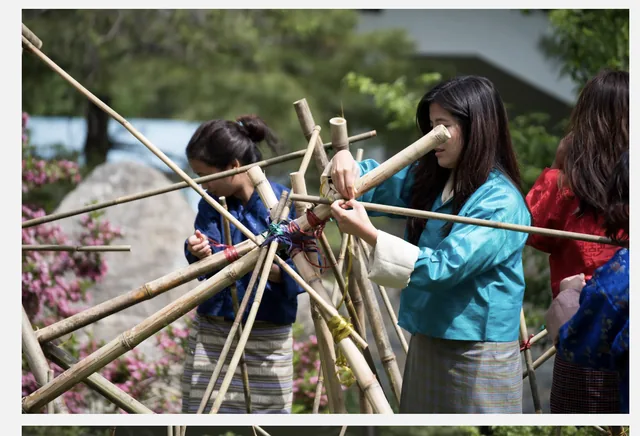
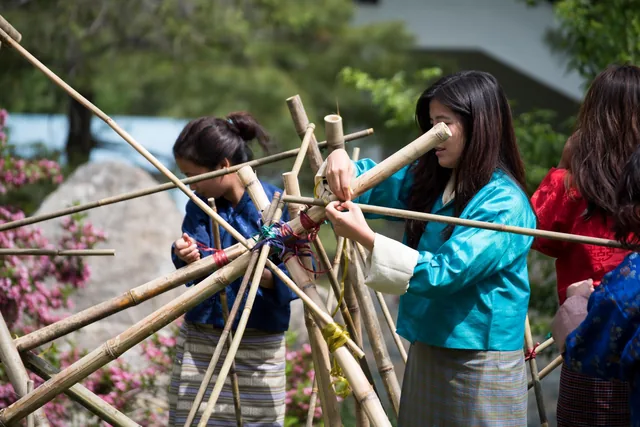
Bamboo III: use original image for thumbnail instead of screenshot
Claude-Session: https://claude.ai/code/session_01Y5zLHHVNGBALbwHoLrd9Wg

diff --git a/dist/public-work/index.html b/dist/public-work/index.html
@@ -9,6 +9,6 @@
 <header class="site-head"><div class="wrap"><a class="brand" href="/">Kelly Goff</a>
 <button class="menu-btn" aria-expanded="false" aria-controls="nav">Menu</button>
 <ul class="nav" id="nav"><li><a href="/public-work/" aria-current=page>Public work</a></li><li><a href="/studio/">Studio</a></li><li><a href="/fieldwork/">Fieldwork</a></li><li><a href="/about/">About</a></li><li><a href="/resume/">Resume</a></li><li><a href="/contact/">Contact</a></li></ul></div></header>
-<main id="main"><div class="wrap page-top"><div class="row-head"><div><h1>Public work</h1></div><a class="btn" href="/files/Kelly-Goff-Public-Art-Project-List.pdf">Project list (PDF) ↓</a></div><div><h2 class="sec"><span class=n>01</span>Line works<span class=nt>2020 – present</span></h2></div><p class="sec-d">Continuous lines drawn in space, shaped by a site and built to last outdoors.</p><div class="grid" id="grid-continuous-line"><a class="tile" title="Arboreal Line" href="/public-work/arboreal-line/"><div class="im"><img src="/img/arboreal-line/01-1600.webp" srcset="/img/arboreal-line/01-640.webp 640w, /img/arboreal-line/01-1100.webp 1100w, /img/arboreal-line/01-1600.webp 1600w, /img/arboreal-line/01-2400.webp 2400w" sizes="(max-width:860px) 50vw, 33vw" width="2500" height="1667" alt="Arboreal Line, Uptown Trees, Greeley, CO" loading=lazy decoding=async><span class="hov">Arboreal Line</span></div></a><a class="tile" title="Continuous Line XI (yellow)" href="/public-work/continuous-line-xi/"><div class="im"><img src="/img/continuous-line-xi/01-1600.webp" srcset="/img/continuous-line-xi/01-640.webp 640w, /img/continuous-line-xi/01-1100.webp 1100w, /img/continuous-line-xi/01-1600.webp 1600w, /img/continuous-line-xi/01-2400.webp 2400w" sizes="(max-width:860px) 50vw, 33vw" width="2500" height="1667" alt="Continuous Line XI (yellow), Wheaton College, Norton, MA" loading=lazy decoding=async><span class="hov">Continuous Line XI (yellow)</span></div></a><a class="tile" title="Continuous Line XII (silence)" href="/public-work/continuous-line-xii-silence/"><div class="im"><img src="/img/continuous-line-xii-silence/01-1600.webp" srcset="/img/continuous-line-xii-silence/01-640.webp 640w, /img/continuous-line-xii-silence/01-1100.webp 1100w, /img/continuous-line-xii-silence/01-1600.webp 1600w, /img/continuous-line-xii-silence/01-2400.webp 2400w" sizes="(max-width:860px) 50vw, 33vw" width="2576" height="1932" alt="Continuous Line XII (silence), Wheaton College, Norton, MA" loading=lazy decoding=async><span class="hov">Continuous Line XII (silence)</span></div></a><a class="tile" title="Continuous Line VIII (bamboo)" href="/public-work/continuous-line-viii-bamboo/"><div class="im"><img src="/img/continuous-line-viii-bamboo/03-1600.webp" srcset="/img/continuous-line-viii-bamboo/03-640.webp 640w, /img/continuous-line-viii-bamboo/03-1100.webp 1100w, /img/continuous-line-viii-bamboo/03-1600.webp 1600w, /img/continuous-line-viii-bamboo/03-1776.webp 1776w" sizes="(max-width:860px) 50vw, 33vw" width="1776" height="1184" alt="Continuous Line VIII (bamboo), Geumgang Nature Art Biennale, Yeonmisan Art Park, Gongju, South Korea, view 3" loading=lazy decoding=async><span class="hov">Continuous Line VIII (bamboo)</span></div></a><a class="tile" title="Continuous Line X (heat)" href="/public-work/continuous-line-x-heat/"><div class="im"><img src="/img/continuous-line-x-heat/01-1600.webp" srcset="/img/continuous-line-x-heat/01-640.webp 640w, /img/continuous-line-x-heat/01-1100.webp 1100w, /img/continuous-line-x-heat/01-1600.webp 1600w, /img/continuous-line-x-heat/01-2400.webp 2400w" sizes="(max-width:860px) 50vw, 33vw" width="2500" height="1669" alt="Continuous Line X (heat), Wheaton College, Norton, MA" loading=lazy decoding=async><span class="hov">Continuous Line X (heat)</span></div></a><a class="tile" title="Continuous Line VI (levity)" href="/public-work/continuous-line-vi-levity/"><div class="im"><img src="/img/continuous-line-vi-levity/04-1600.webp" srcset="/img/continuous-line-vi-levity/04-640.webp 640w, /img/continuous-line-vi-levity/04-1100.webp 1100w, /img/continuous-line-vi-levity/04-1600.webp 1600w, /img/continuous-line-vi-levity/04-1854.webp 1854w" sizes="(max-width:860px) 50vw, 33vw" width="1854" height="1154" alt="Continuous Line VI (levity), Power Tech Charter School, Colorado Springs, CO, view 4" loading=lazy decoding=async><span class="hov">Continuous Line VI (levity)</span></div></a><a class="tile" title="Continuous Line VII" href="/public-work/continuous-line-vii/"><div class="im"><img src="/img/continuous-line-vii/01-1600.webp" srcset="/img/continuous-line-vii/01-640.webp 640w, /img/continuous-line-vii/01-1100.webp 1100w, /img/continuous-line-vii/01-1600.webp 1600w, /img/continuous-line-vii/01-2400.webp 2400w" sizes="(max-width:860px) 50vw, 33vw" width="2500" height="1668" alt="Continuous Line VII, El Paseo Sculpture Exhibition, Palm Desert, CA" loading=lazy decoding=async><span class="hov">Continuous Line VII</span></div></a><a class="tile" title="Continuous Line I (tangerine)" href="/public-work/continuous-line-i-tangerine/"><div class="im"><img src="/img/continuous-line-i-tangerine/01-1600.webp" srcset="/img/continuous-line-i-tangerine/01-640.webp 640w, /img/continuous-line-i-tangerine/01-1100.webp 1100w, /img/continuous-line-i-tangerine/01-1600.webp 1600w, /img/continuous-line-i-tangerine/01-2400.webp 2400w" sizes="(max-width:860px) 50vw, 33vw" width="2500" height="1667" alt="Continuous Line I (tangerine), Art on the Trails, Beals Preserve, Southborough, MA" loading=lazy decoding=async><span class="hov">Continuous Line I (tangerine)</span></div></a><a class="tile" title="Continuous Line II (aquamarine)" href="/public-work/continuous-line-ii-aquamarine/"><div class="im"><img src="/img/continuous-line-ii-aquamarine/01-1600.webp" srcset="/img/continuous-line-ii-aquamarine/01-640.webp 640w, /img/continuous-line-ii-aquamarine/01-1100.webp 1100w, /img/continuous-line-ii-aquamarine/01-1600.webp 1600w, /img/continuous-line-ii-aquamarine/01-2400.webp 2400w" sizes="(max-width:860px) 50vw, 33vw" width="2500" height="1669" alt="Continuous Line II (aquamarine), Art on the Trails, Beals Preserve, Southborough, MA" loading=lazy decoding=async><span class="hov">Continuous Line II (aquamarine)</span></div></a></div><div><h2 class="sec"><span class=n>02</span>Place-based / collaborative<span class=nt>2014 – 2021</span></h2></div><p class="sec-d">Work made in response to a specific place, often with the people who use it.</p><div class="grid" id="grid-place-based"><a class="tile" title="Limb Support" href="/public-work/limb-support/"><div class="im"><img src="/img/limb-support/01-1600.webp" srcset="/img/limb-support/01-640.webp 640w, /img/limb-support/01-1100.webp 1100w, /img/limb-support/01-1600.webp 1600w, /img/limb-support/01-2000.webp 2000w" sizes="(max-width:860px) 50vw, 33vw" width="2000" height="1333" alt="Limb Support, Art on the Trails, Beals Preserve, Southborough, MA" loading=lazy decoding=async><span class="hov">Limb Support</span></div></a><a class="tile" title="Log Pile" href="/public-work/log-pile/"><div class="im"><img src="/img/log-pile/01-1600.webp" srcset="/img/log-pile/01-640.webp 640w, /img/log-pile/01-1100.webp 1100w, /img/log-pile/01-1600.webp 1600w, /img/log-pile/01-2400.webp 2400w" sizes="(max-width:860px) 50vw, 33vw" width="2500" height="1668" alt="Log Pile, Early Learning Center, Wheaton College, Norton, MA" loading=lazy decoding=async><span class="hov">Log Pile</span></div></a><a class="tile" title="Beacon" href="/public-work/beacon/"><div class="im"><img src="/img/beacon/01-1600.webp" srcset="/img/beacon/01-640.webp 640w, /img/beacon/01-1100.webp 1100w, /img/beacon/01-1600.webp 1600w, /img/beacon/01-2400.webp 2400w" sizes="(max-width:860px) 50vw, 33vw" width="2500" height="1669" alt="Beacon, gardeHouse, Lafayette College, Easton, PA" loading=lazy decoding=async><span class="hov">Beacon</span></div></a><a class="tile" title="Bamboo III (of V)" href="/public-work/bamboo-iii/"><div class="im"><img src="/img/bamboo-iii/07-1600.webp" srcset="/img/bamboo-iii/07-640.webp 640w, /img/bamboo-iii/07-1100.webp 1100w, /img/bamboo-iii/07-1600.webp 1600w, /img/bamboo-iii/07-1736.webp 1736w" sizes="(max-width:860px) 50vw, 33vw" width="1736" height="1182" alt="Bamboo III (of V), Royal Thimphu College, Thimphu, Bhutan, view 7" loading=lazy decoding=async><span class="hov">Bamboo III (of V)</span></div></a><a class="tile" title="Lawn Containers" href="/public-work/lawn-containers/"><div class="im"><img src="/img/lawn-containers/05-1600.webp" srcset="/img/lawn-containers/05-640.webp 640w, /img/lawn-containers/05-1100.webp 1100w, /img/lawn-containers/05-1600.webp 1600w, /img/lawn-containers/05-1920.webp 1920w" sizes="(max-width:860px) 50vw, 33vw" width="1920" height="1280" alt="Lawn Containers, D Street Art Lab, Lawn on D, Boston, MA, view 5" loading=lazy decoding=async><span class="hov">Lawn Containers</span></div></a><a class="tile" title="Bear" href="/public-work/bear/"><div class="im"><img src="/img/bear/01-1600.webp" srcset="/img/bear/01-640.webp 640w, /img/bear/01-1100.webp 1100w, /img/bear/01-1600.webp 1600w, /img/bear/01-2400.webp 2400w" sizes="(max-width:860px) 50vw, 33vw" width="2500" height="1667" alt="Bear, Lake Clark National Park, Alaska" loading=lazy decoding=async><span class="hov">Bear</span></div></a></div><div><h2 class="sec"><span class=n>03</span>Drawings &amp; Renderings<span class=nt>Unbuilt</span></h2></div><p class="sec-d">Rendered models placed in photographs of real and imagined places. This is how I draw for fun, and how I ideate and envision work for public spaces. None of these are built, and none use <a href="/about/#ai">generative AI</a>.</p><div class="grid" id="grid-renderings"><a class="tile" title="Seated Line" href="/public-work/renderings/seated-line/"><div class="im"><img src="/img/rd-seated-line/02-1600.webp" srcset="/img/rd-seated-line/02-640.webp 640w, /img/rd-seated-line/02-1100.webp 1100w, /img/rd-seated-line/02-1600.webp 1600w, /img/rd-seated-line/02-2250.webp 2250w" sizes="(max-width:860px) 50vw, 33vw" width="2250" height="1500" alt="Rendering of a red looping sculpture on a harbor quay" loading=lazy decoding=async></div></a><a class="tile" title="Black loops, open field" href="/public-work/renderings/black-field/"><div class="im"><img src="/img/rd-black-field/01-1600.webp" srcset="/img/rd-black-field/01-640.webp 640w, /img/rd-black-field/01-1100.webp 1100w, /img/rd-black-field/01-1600.webp 1600w, /img/rd-black-field/01-2400.webp 2400w" sizes="(max-width:860px) 50vw, 33vw" width="2500" height="1668" alt="Rendering of black loops, close view, in an open field" loading=lazy decoding=async></div></a><a class="tile" title="Tower" href="/public-work/renderings/tower/"><div class="im"><img src="/img/rd-tower/01-1600.webp" srcset="/img/rd-tower/01-640.webp 640w, /img/rd-tower/01-1100.webp 1100w, /img/rd-tower/01-1600.webp 1600w, /img/rd-tower/01-2048.webp 2048w" sizes="(max-width:860px) 50vw, 33vw" width="2048" height="1536" alt="Rendering of a 40-foot tower of stacked crates in an open field" loading=lazy decoding=async></div></a><a class="tile" title="Timber Loop" href="/public-work/renderings/timber-loop/"><div class="im"><img src="/img/rd-timber-loop/03-1600.webp" srcset="/img/rd-timber-loop/03-640.webp 640w, /img/rd-timber-loop/03-1100.webp 1100w, /img/rd-timber-loop/03-1600.webp 1600w, /img/rd-timber-loop/03-2021.webp 2021w" sizes="(max-width:860px) 50vw, 33vw" width="2021" height="1516" alt="Rendering of a two-tone timber looping sculpture in a plaza" loading=lazy decoding=async></div></a><a class="tile" title="Tall Circuit" href="/public-work/renderings/tall-circuit/"><div class="im"><img src="/img/rd-tall-circuit/02-1600.webp" srcset="/img/rd-tall-circuit/02-640.webp 640w, /img/rd-tall-circuit/02-1100.webp 1100w, /img/rd-tall-circuit/02-1600.webp 1600w, /img/rd-tall-circuit/02-2250.webp 2250w" sizes="(max-width:860px) 50vw, 33vw" width="2250" height="1500" alt="Rendering of a tall looping pink aluminum sculpture in an urban setting" loading=lazy decoding=async></div></a></div></div></main>
+<main id="main"><div class="wrap page-top"><div class="row-head"><div><h1>Public work</h1></div><a class="btn" href="/files/Kelly-Goff-Public-Art-Project-List.pdf">Project list (PDF) ↓</a></div><div><h2 class="sec"><span class=n>01</span>Line works<span class=nt>2020 – present</span></h2></div><p class="sec-d">Continuous lines drawn in space, shaped by a site and built to last outdoors.</p><div class="grid" id="grid-continuous-line"><a class="tile" title="Arboreal Line" href="/public-work/arboreal-line/"><div class="im"><img src="/img/arboreal-line/01-1600.webp" srcset="/img/arboreal-line/01-640.webp 640w, /img/arboreal-line/01-1100.webp 1100w, /img/arboreal-line/01-1600.webp 1600w, /img/arboreal-line/01-2400.webp 2400w" sizes="(max-width:860px) 50vw, 33vw" width="2500" height="1667" alt="Arboreal Line, Uptown Trees, Greeley, CO" loading=lazy decoding=async><span class="hov">Arboreal Line</span></div></a><a class="tile" title="Continuous Line XI (yellow)" href="/public-work/continuous-line-xi/"><div class="im"><img src="/img/continuous-line-xi/01-1600.webp" srcset="/img/continuous-line-xi/01-640.webp 640w, /img/continuous-line-xi/01-1100.webp 1100w, /img/continuous-line-xi/01-1600.webp 1600w, /img/continuous-line-xi/01-2400.webp 2400w" sizes="(max-width:860px) 50vw, 33vw" width="2500" height="1667" alt="Continuous Line XI (yellow), Wheaton College, Norton, MA" loading=lazy decoding=async><span class="hov">Continuous Line XI (yellow)</span></div></a><a class="tile" title="Continuous Line XII (silence)" href="/public-work/continuous-line-xii-silence/"><div class="im"><img src="/img/continuous-line-xii-silence/01-1600.webp" srcset="/img/continuous-line-xii-silence/01-640.webp 640w, /img/continuous-line-xii-silence/01-1100.webp 1100w, /img/continuous-line-xii-silence/01-1600.webp 1600w, /img/continuous-line-xii-silence/01-2400.webp 2400w" sizes="(max-width:860px) 50vw, 33vw" width="2576" height="1932" alt="Continuous Line XII (silence), Wheaton College, Norton, MA" loading=lazy decoding=async><span class="hov">Continuous Line XII (silence)</span></div></a><a class="tile" title="Continuous Line VIII (bamboo)" href="/public-work/continuous-line-viii-bamboo/"><div class="im"><img src="/img/continuous-line-viii-bamboo/03-1600.webp" srcset="/img/continuous-line-viii-bamboo/03-640.webp 640w, /img/continuous-line-viii-bamboo/03-1100.webp 1100w, /img/continuous-line-viii-bamboo/03-1600.webp 1600w, /img/continuous-line-viii-bamboo/03-1776.webp 1776w" sizes="(max-width:860px) 50vw, 33vw" width="1776" height="1184" alt="Continuous Line VIII (bamboo), Geumgang Nature Art Biennale, Yeonmisan Art Park, Gongju, South Korea, view 3" loading=lazy decoding=async><span class="hov">Continuous Line VIII (bamboo)</span></div></a><a class="tile" title="Continuous Line X (heat)" href="/public-work/continuous-line-x-heat/"><div class="im"><img src="/img/continuous-line-x-heat/01-1600.webp" srcset="/img/continuous-line-x-heat/01-640.webp 640w, /img/continuous-line-x-heat/01-1100.webp 1100w, /img/continuous-line-x-heat/01-1600.webp 1600w, /img/continuous-line-x-heat/01-2400.webp 2400w" sizes="(max-width:860px) 50vw, 33vw" width="2500" height="1669" alt="Continuous Line X (heat), Wheaton College, Norton, MA" loading=lazy decoding=async><span class="hov">Continuous Line X (heat)</span></div></a><a class="tile" title="Continuous Line VI (levity)" href="/public-work/continuous-line-vi-levity/"><div class="im"><img src="/img/continuous-line-vi-levity/04-1600.webp" srcset="/img/continuous-line-vi-levity/04-640.webp 640w, /img/continuous-line-vi-levity/04-1100.webp 1100w, /img/continuous-line-vi-levity/04-1600.webp 1600w, /img/continuous-line-vi-levity/04-1854.webp 1854w" sizes="(max-width:860px) 50vw, 33vw" width="1854" height="1154" alt="Continuous Line VI (levity), Power Tech Charter School, Colorado Springs, CO, view 4" loading=lazy decoding=async><span class="hov">Continuous Line VI (levity)</span></div></a><a class="tile" title="Continuous Line VII" href="/public-work/continuous-line-vii/"><div class="im"><img src="/img/continuous-line-vii/01-1600.webp" srcset="/img/continuous-line-vii/01-640.webp 640w, /img/continuous-line-vii/01-1100.webp 1100w, /img/continuous-line-vii/01-1600.webp 1600w, /img/continuous-line-vii/01-2400.webp 2400w" sizes="(max-width:860px) 50vw, 33vw" width="2500" height="1668" alt="Continuous Line VII, El Paseo Sculpture Exhibition, Palm Desert, CA" loading=lazy decoding=async><span class="hov">Continuous Line VII</span></div></a><a class="tile" title="Continuous Line I (tangerine)" href="/public-work/continuous-line-i-tangerine/"><div class="im"><img src="/img/continuous-line-i-tangerine/01-1600.webp" srcset="/img/continuous-line-i-tangerine/01-640.webp 640w, /img/continuous-line-i-tangerine/01-1100.webp 1100w, /img/continuous-line-i-tangerine/01-1600.webp 1600w, /img/continuous-line-i-tangerine/01-2400.webp 2400w" sizes="(max-width:860px) 50vw, 33vw" width="2500" height="1667" alt="Continuous Line I (tangerine), Art on the Trails, Beals Preserve, Southborough, MA" loading=lazy decoding=async><span class="hov">Continuous Line I (tangerine)</span></div></a><a class="tile" title="Continuous Line II (aquamarine)" href="/public-work/continuous-line-ii-aquamarine/"><div class="im"><img src="/img/continuous-line-ii-aquamarine/01-1600.webp" srcset="/img/continuous-line-ii-aquamarine/01-640.webp 640w, /img/continuous-line-ii-aquamarine/01-1100.webp 1100w, /img/continuous-line-ii-aquamarine/01-1600.webp 1600w, /img/continuous-line-ii-aquamarine/01-2400.webp 2400w" sizes="(max-width:860px) 50vw, 33vw" width="2500" height="1669" alt="Continuous Line II (aquamarine), Art on the Trails, Beals Preserve, Southborough, MA" loading=lazy decoding=async><span class="hov">Continuous Line II (aquamarine)</span></div></a></div><div><h2 class="sec"><span class=n>02</span>Place-based / collaborative<span class=nt>2014 – 2021</span></h2></div><p class="sec-d">Work made in response to a specific place, often with the people who use it.</p><div class="grid" id="grid-place-based"><a class="tile" title="Limb Support" href="/public-work/limb-support/"><div class="im"><img src="/img/limb-support/01-1600.webp" srcset="/img/limb-support/01-640.webp 640w, /img/limb-support/01-1100.webp 1100w, /img/limb-support/01-1600.webp 1600w, /img/limb-support/01-2000.webp 2000w" sizes="(max-width:860px) 50vw, 33vw" width="2000" height="1333" alt="Limb Support, Art on the Trails, Beals Preserve, Southborough, MA" loading=lazy decoding=async><span class="hov">Limb Support</span></div></a><a class="tile" title="Log Pile" href="/public-work/log-pile/"><div class="im"><img src="/img/log-pile/01-1600.webp" srcset="/img/log-pile/01-640.webp 640w, /img/log-pile/01-1100.webp 1100w, /img/log-pile/01-1600.webp 1600w, /img/log-pile/01-2400.webp 2400w" sizes="(max-width:860px) 50vw, 33vw" width="2500" height="1668" alt="Log Pile, Early Learning Center, Wheaton College, Norton, MA" loading=lazy decoding=async><span class="hov">Log Pile</span></div></a><a class="tile" title="Beacon" href="/public-work/beacon/"><div class="im"><img src="/img/beacon/01-1600.webp" srcset="/img/beacon/01-640.webp 640w, /img/beacon/01-1100.webp 1100w, /img/beacon/01-1600.webp 1600w, /img/beacon/01-2400.webp 2400w" sizes="(max-width:860px) 50vw, 33vw" width="2500" height="1669" alt="Beacon, gardeHouse, Lafayette College, Easton, PA" loading=lazy decoding=async><span class="hov">Beacon</span></div></a><a class="tile" title="Bamboo III (of V)" href="/public-work/bamboo-iii/"><div class="im"><img src="/img/bamboo-iii/07-1600.webp" srcset="/img/bamboo-iii/07-640.webp 640w, /img/bamboo-iii/07-1100.webp 1100w, /img/bamboo-iii/07-1600.webp 1600w, /img/bamboo-iii/07-2400.webp 2400w" sizes="(max-width:860px) 50vw, 33vw" width="2500" height="1668" alt="Bamboo III (of V), Royal Thimphu College, Thimphu, Bhutan, view 7" loading=lazy decoding=async><span class="hov">Bamboo III (of V)</span></div></a><a class="tile" title="Lawn Containers" href="/public-work/lawn-containers/"><div class="im"><img src="/img/lawn-containers/05-1600.webp" srcset="/img/lawn-containers/05-640.webp 640w, /img/lawn-containers/05-1100.webp 1100w, /img/lawn-containers/05-1600.webp 1600w, /img/lawn-containers/05-1920.webp 1920w" sizes="(max-width:860px) 50vw, 33vw" width="1920" height="1280" alt="Lawn Containers, D Street Art Lab, Lawn on D, Boston, MA, view 5" loading=lazy decoding=async><span class="hov">Lawn Containers</span></div></a><a class="tile" title="Bear" href="/public-work/bear/"><div class="im"><img src="/img/bear/01-1600.webp" srcset="/img/bear/01-640.webp 640w, /img/bear/01-1100.webp 1100w, /img/bear/01-1600.webp 1600w, /img/bear/01-2400.webp 2400w" sizes="(max-width:860px) 50vw, 33vw" width="2500" height="1667" alt="Bear, Lake Clark National Park, Alaska" loading=lazy decoding=async><span class="hov">Bear</span></div></a></div><div><h2 class="sec"><span class=n>03</span>Drawings &amp; Renderings<span class=nt>Unbuilt</span></h2></div><p class="sec-d">Rendered models placed in photographs of real and imagined places. This is how I draw for fun, and how I ideate and envision work for public spaces. None of these are built, and none use <a href="/about/#ai">generative AI</a>.</p><div class="grid" id="grid-renderings"><a class="tile" title="Seated Line" href="/public-work/renderings/seated-line/"><div class="im"><img src="/img/rd-seated-line/02-1600.webp" srcset="/img/rd-seated-line/02-640.webp 640w, /img/rd-seated-line/02-1100.webp 1100w, /img/rd-seated-line/02-1600.webp 1600w, /img/rd-seated-line/02-2250.webp 2250w" sizes="(max-width:860px) 50vw, 33vw" width="2250" height="1500" alt="Rendering of a red looping sculpture on a harbor quay" loading=lazy decoding=async></div></a><a class="tile" title="Black loops, open field" href="/public-work/renderings/black-field/"><div class="im"><img src="/img/rd-black-field/01-1600.webp" srcset="/img/rd-black-field/01-640.webp 640w, /img/rd-black-field/01-1100.webp 1100w, /img/rd-black-field/01-1600.webp 1600w, /img/rd-black-field/01-2400.webp 2400w" sizes="(max-width:860px) 50vw, 33vw" width="2500" height="1668" alt="Rendering of black loops, close view, in an open field" loading=lazy decoding=async></div></a><a class="tile" title="Tower" href="/public-work/renderings/tower/"><div class="im"><img src="/img/rd-tower/01-1600.webp" srcset="/img/rd-tower/01-640.webp 640w, /img/rd-tower/01-1100.webp 1100w, /img/rd-tower/01-1600.webp 1600w, /img/rd-tower/01-2048.webp 2048w" sizes="(max-width:860px) 50vw, 33vw" width="2048" height="1536" alt="Rendering of a 40-foot tower of stacked crates in an open field" loading=lazy decoding=async></div></a><a class="tile" title="Timber Loop" href="/public-work/renderings/timber-loop/"><div class="im"><img src="/img/rd-timber-loop/03-1600.webp" srcset="/img/rd-timber-loop/03-640.webp 640w, /img/rd-timber-loop/03-1100.webp 1100w, /img/rd-timber-loop/03-1600.webp 1600w, /img/rd-timber-loop/03-2021.webp 2021w" sizes="(max-width:860px) 50vw, 33vw" width="2021" height="1516" alt="Rendering of a two-tone timber looping sculpture in a plaza" loading=lazy decoding=async></div></a><a class="tile" title="Tall Circuit" href="/public-work/renderings/tall-circuit/"><div class="im"><img src="/img/rd-tall-circuit/02-1600.webp" srcset="/img/rd-tall-circuit/02-640.webp 640w, /img/rd-tall-circuit/02-1100.webp 1100w, /img/rd-tall-circuit/02-1600.webp 1600w, /img/rd-tall-circuit/02-2250.webp 2250w" sizes="(max-width:860px) 50vw, 33vw" width="2250" height="1500" alt="Rendering of a tall looping pink aluminum sculpture in an urban setting" loading=lazy decoding=async></div></a></div></div></main>
 <footer class="site-foot"><div class="wrap"><span>© 2008–2026 Kelly Goff</span><a href="https://www.instagram.com/kellygoffstudio/" rel="me noopener">Instagram · @kellygoffstudio</a></div></footer>
 <script src="/assets/js/site.js" defer></script></body></html>

diff --git a/dist/public-work/bamboo-iii/index.html b/dist/public-work/bamboo-iii/index.html
@@ -9,6 +9,6 @@
 <header class="site-head"><div class="wrap"><a class="brand" href="/">Kelly Goff</a>
 <button class="menu-btn" aria-expanded="false" aria-controls="nav">Menu</button>
 <ul class="nav" id="nav"><li><a href="/public-work/" aria-current=page>Public work</a></li><li><a href="/studio/">Studio</a></li><li><a href="/fieldwork/">Fieldwork</a></li><li><a href="/about/">About</a></li><li><a href="/resume/">Resume</a></li><li><a href="/contact/">Contact</a></li></ul></div></header>
-<main id="main"><div class="wrap page-top"><div class="crumb"><a href="/public-work/">Public work</a></div><h1 style="margin-top:10px">Bamboo III (of V)</h1><div class="proj"><div class="gal"><figure><button type="button" data-lb="/img/bamboo-iii/01-2355.webp" data-alt="Bamboo III (of V), Royal Thimphu College, Thimphu, Bhutan" data-cap="Bamboo III (of V)" aria-label="Enlarge image 1 of 7"><img src="/img/bamboo-iii/01-1600.webp" srcset="/img/bamboo-iii/01-640.webp 640w, /img/bamboo-iii/01-1100.webp 1100w, /img/bamboo-iii/01-1600.webp 1600w, /img/bamboo-iii/01-2355.webp 2355w" sizes="(max-width:860px) 100vw, 60vw" width="2355" height="1572" alt="Bamboo III (of V), Royal Thimphu College, Thimphu, Bhutan" decoding=async></button></figure><figure><button type="button" data-lb="/img/bamboo-iii/02-2355.webp" data-alt="Bamboo III (of V), Royal Thimphu College, Thimphu, Bhutan, view 2" data-cap="Bamboo III (of V)" aria-label="Enlarge image 2 of 7"><img src="/img/bamboo-iii/02-1600.webp" srcset="/img/bamboo-iii/02-640.webp 640w, /img/bamboo-iii/02-1100.webp 1100w, /img/bamboo-iii/02-1600.webp 1600w, /img/bamboo-iii/02-2355.webp 2355w" sizes="(max-width:860px) 100vw, 60vw" width="2355" height="1572" alt="Bamboo III (of V), Royal Thimphu College, Thimphu, Bhutan, view 2" loading=lazy decoding=async></button></figure><figure><button type="button" data-lb="/img/bamboo-iii/03-2400.webp" data-alt="Bamboo III (of V), Royal Thimphu College, Thimphu, Bhutan, view 3" data-cap="Bamboo III (of V)" aria-label="Enlarge image 3 of 7"><img src="/img/bamboo-iii/03-1600.webp" srcset="/img/bamboo-iii/03-640.webp 640w, /img/bamboo-iii/03-1100.webp 1100w, /img/bamboo-iii/03-1600.webp 1600w, /img/bamboo-iii/03-2400.webp 2400w" sizes="(max-width:860px) 100vw, 60vw" width="2500" height="1786" alt="Bamboo III (of V), Royal Thimphu College, Thimphu, Bhutan, view 3" loading=lazy decoding=async></button></figure><figure><button type="button" data-lb="/img/bamboo-iii/04-2400.webp" data-alt="Bamboo III (of V), Royal Thimphu College, Thimphu, Bhutan, view 4" data-cap="Bamboo III (of V)" aria-label="Enlarge image 4 of 7"><img src="/img/bamboo-iii/04-1600.webp" srcset="/img/bamboo-iii/04-640.webp 640w, /img/bamboo-iii/04-1100.webp 1100w, /img/bamboo-iii/04-1600.webp 1600w, /img/bamboo-iii/04-2400.webp 2400w" sizes="(max-width:860px) 100vw, 60vw" width="2500" height="1668" alt="Bamboo III (of V), Royal Thimphu College, Thimphu, Bhutan, view 4" loading=lazy decoding=async></button></figure><figure><button type="button" data-lb="/img/bamboo-iii/05-2000.webp" data-alt="Bamboo III (of V), Royal Thimphu College, Thimphu, Bhutan, view 5" data-cap="Bamboo III (of V)" aria-label="Enlarge image 5 of 7"><img src="/img/bamboo-iii/05-1600.webp" srcset="/img/bamboo-iii/05-640.webp 640w, /img/bamboo-iii/05-1100.webp 1100w, /img/bamboo-iii/05-1600.webp 1600w, /img/bamboo-iii/05-2000.webp 2000w" sizes="(max-width:860px) 100vw, 60vw" width="2000" height="1335" alt="Bamboo III (of V), Royal Thimphu College, Thimphu, Bhutan, view 5" loading=lazy decoding=async></button></figure><figure><button type="button" data-lb="/img/bamboo-iii/06-2400.webp" data-alt="Bamboo III (of V), Royal Thimphu College, Thimphu, Bhutan, view 6" data-cap="Bamboo III (of V)" aria-label="Enlarge image 6 of 7"><img src="/img/bamboo-iii/06-1600.webp" srcset="/img/bamboo-iii/06-640.webp 640w, /img/bamboo-iii/06-1100.webp 1100w, /img/bamboo-iii/06-1600.webp 1600w, /img/bamboo-iii/06-2400.webp 2400w" sizes="(max-width:860px) 100vw, 60vw" width="2500" height="1668" alt="Bamboo III (of V), Royal Thimphu College, Thimphu, Bhutan, view 6" loading=lazy decoding=async></button></figure><figure><button type="button" data-lb="/img/bamboo-iii/07-1736.webp" data-alt="Bamboo III (of V), Royal Thimphu College, Thimphu, Bhutan, view 7" data-cap="Bamboo III (of V)" aria-label="Enlarge image 7 of 7"><img src="/img/bamboo-iii/07-1600.webp" srcset="/img/bamboo-iii/07-640.webp 640w, /img/bamboo-iii/07-1100.webp 1100w, /img/bamboo-iii/07-1600.webp 1600w, /img/bamboo-iii/07-1736.webp 1736w" sizes="(max-width:860px) 100vw, 60vw" width="1736" height="1182" alt="Bamboo III (of V), Royal Thimphu College, Thimphu, Bhutan, view 7" loading=lazy decoding=async></button></figure></div><aside class="facts" aria-label="Project details"><div class="fact"><div class="k">Year</div><div class="v">2017</div></div><div class="fact"><div class="k">Material</div><div class="v">Bamboo, packaging twine</div></div><div class="fact"><div class="k">Size</div><div class="v">Each structure uniquely determined by collaborators</div></div><div class="fact"><div class="k">Site</div><div class="v">Royal Thimphu College, Thimphu, Bhutan</div></div><div class="fact"><div class="k">Status</div><div class="v">Community project</div></div><div class="related"><div class="fact"><div class="k">Fieldwork</div><div class="v"><a href="/fieldwork/bhutan/">Bhutan, 2017</a></div></div></div></aside></div><nav class="pager" aria-label="More projects"><span><a href="/public-work/beacon/">← Beacon</a></span><a href="/public-work/">All public work</a><span><a href="/public-work/lawn-containers/">Lawn Containers →</a></span></nav></div><dialog class="lb" id="lb" aria-label="Image viewer"><div class="lb-in"><div class="stage"><img alt=""></div><div class="lb-cap"></div></div><button class="x" type="button">Close</button><button class="pv" type="button" aria-label="Previous image">←</button><button class="nx" type="button" aria-label="Next image">→</button></dialog></main>
+<main id="main"><div class="wrap page-top"><div class="crumb"><a href="/public-work/">Public work</a></div><h1 style="margin-top:10px">Bamboo III (of V)</h1><div class="proj"><div class="gal"><figure><button type="button" data-lb="/img/bamboo-iii/01-2355.webp" data-alt="Bamboo III (of V), Royal Thimphu College, Thimphu, Bhutan" data-cap="Bamboo III (of V)" aria-label="Enlarge image 1 of 7"><img src="/img/bamboo-iii/01-1600.webp" srcset="/img/bamboo-iii/01-640.webp 640w, /img/bamboo-iii/01-1100.webp 1100w, /img/bamboo-iii/01-1600.webp 1600w, /img/bamboo-iii/01-2355.webp 2355w" sizes="(max-width:860px) 100vw, 60vw" width="2355" height="1572" alt="Bamboo III (of V), Royal Thimphu College, Thimphu, Bhutan" decoding=async></button></figure><figure><button type="button" data-lb="/img/bamboo-iii/02-2355.webp" data-alt="Bamboo III (of V), Royal Thimphu College, Thimphu, Bhutan, view 2" data-cap="Bamboo III (of V)" aria-label="Enlarge image 2 of 7"><img src="/img/bamboo-iii/02-1600.webp" srcset="/img/bamboo-iii/02-640.webp 640w, /img/bamboo-iii/02-1100.webp 1100w, /img/bamboo-iii/02-1600.webp 1600w, /img/bamboo-iii/02-2355.webp 2355w" sizes="(max-width:860px) 100vw, 60vw" width="2355" height="1572" alt="Bamboo III (of V), Royal Thimphu College, Thimphu, Bhutan, view 2" loading=lazy decoding=async></button></figure><figure><button type="button" data-lb="/img/bamboo-iii/03-2400.webp" data-alt="Bamboo III (of V), Royal Thimphu College, Thimphu, Bhutan, view 3" data-cap="Bamboo III (of V)" aria-label="Enlarge image 3 of 7"><img src="/img/bamboo-iii/03-1600.webp" srcset="/img/bamboo-iii/03-640.webp 640w, /img/bamboo-iii/03-1100.webp 1100w, /img/bamboo-iii/03-1600.webp 1600w, /img/bamboo-iii/03-2400.webp 2400w" sizes="(max-width:860px) 100vw, 60vw" width="2500" height="1786" alt="Bamboo III (of V), Royal Thimphu College, Thimphu, Bhutan, view 3" loading=lazy decoding=async></button></figure><figure><button type="button" data-lb="/img/bamboo-iii/04-2400.webp" data-alt="Bamboo III (of V), Royal Thimphu College, Thimphu, Bhutan, view 4" data-cap="Bamboo III (of V)" aria-label="Enlarge image 4 of 7"><img src="/img/bamboo-iii/04-1600.webp" srcset="/img/bamboo-iii/04-640.webp 640w, /img/bamboo-iii/04-1100.webp 1100w, /img/bamboo-iii/04-1600.webp 1600w, /img/bamboo-iii/04-2400.webp 2400w" sizes="(max-width:860px) 100vw, 60vw" width="2500" height="1668" alt="Bamboo III (of V), Royal Thimphu College, Thimphu, Bhutan, view 4" loading=lazy decoding=async></button></figure><figure><button type="button" data-lb="/img/bamboo-iii/05-2000.webp" data-alt="Bamboo III (of V), Royal Thimphu College, Thimphu, Bhutan, view 5" data-cap="Bamboo III (of V)" aria-label="Enlarge image 5 of 7"><img src="/img/bamboo-iii/05-1600.webp" srcset="/img/bamboo-iii/05-640.webp 640w, /img/bamboo-iii/05-1100.webp 1100w, /img/bamboo-iii/05-1600.webp 1600w, /img/bamboo-iii/05-2000.webp 2000w" sizes="(max-width:860px) 100vw, 60vw" width="2000" height="1335" alt="Bamboo III (of V), Royal Thimphu College, Thimphu, Bhutan, view 5" loading=lazy decoding=async></button></figure><figure><button type="button" data-lb="/img/bamboo-iii/06-2400.webp" data-alt="Bamboo III (of V), Royal Thimphu College, Thimphu, Bhutan, view 6" data-cap="Bamboo III (of V)" aria-label="Enlarge image 6 of 7"><img src="/img/bamboo-iii/06-1600.webp" srcset="/img/bamboo-iii/06-640.webp 640w, /img/bamboo-iii/06-1100.webp 1100w, /img/bamboo-iii/06-1600.webp 1600w, /img/bamboo-iii/06-2400.webp 2400w" sizes="(max-width:860px) 100vw, 60vw" width="2500" height="1668" alt="Bamboo III (of V), Royal Thimphu College, Thimphu, Bhutan, view 6" loading=lazy decoding=async></button></figure><figure><button type="button" data-lb="/img/bamboo-iii/07-2400.webp" data-alt="Bamboo III (of V), Royal Thimphu College, Thimphu, Bhutan, view 7" data-cap="Bamboo III (of V)" aria-label="Enlarge image 7 of 7"><img src="/img/bamboo-iii/07-1600.webp" srcset="/img/bamboo-iii/07-640.webp 640w, /img/bamboo-iii/07-1100.webp 1100w, /img/bamboo-iii/07-1600.webp 1600w, /img/bamboo-iii/07-2400.webp 2400w" sizes="(max-width:860px) 100vw, 60vw" width="2500" height="1668" alt="Bamboo III (of V), Royal Thimphu College, Thimphu, Bhutan, view 7" loading=lazy decoding=async></button></figure></div><aside class="facts" aria-label="Project details"><div class="fact"><div class="k">Year</div><div class="v">2017</div></div><div class="fact"><div class="k">Material</div><div class="v">Bamboo, packaging twine</div></div><div class="fact"><div class="k">Size</div><div class="v">Each structure uniquely determined by collaborators</div></div><div class="fact"><div class="k">Site</div><div class="v">Royal Thimphu College, Thimphu, Bhutan</div></div><div class="fact"><div class="k">Status</div><div class="v">Community project</div></div><div class="related"><div class="fact"><div class="k">Fieldwork</div><div class="v"><a href="/fieldwork/bhutan/">Bhutan, 2017</a></div></div></div></aside></div><nav class="pager" aria-label="More projects"><span><a href="/public-work/beacon/">← Beacon</a></span><a href="/public-work/">All public work</a><span><a href="/public-work/lawn-containers/">Lawn Containers →</a></span></nav></div><dialog class="lb" id="lb" aria-label="Image viewer"><div class="lb-in"><div class="stage"><img alt=""></div><div class="lb-cap"></div></div><button class="x" type="button">Close</button><button class="pv" type="button" aria-label="Previous image">←</button><button class="nx" type="button" aria-label="Next image">→</button></dialog></main>
 <footer class="site-foot"><div class="wrap"><span>© 2008–2026 Kelly Goff</span><a href="https://www.instagram.com/kellygoffstudio/" rel="me noopener">Instagram · @kellygoffstudio</a></div></footer>
 <script src="/assets/js/site.js" defer></script></body></html>
